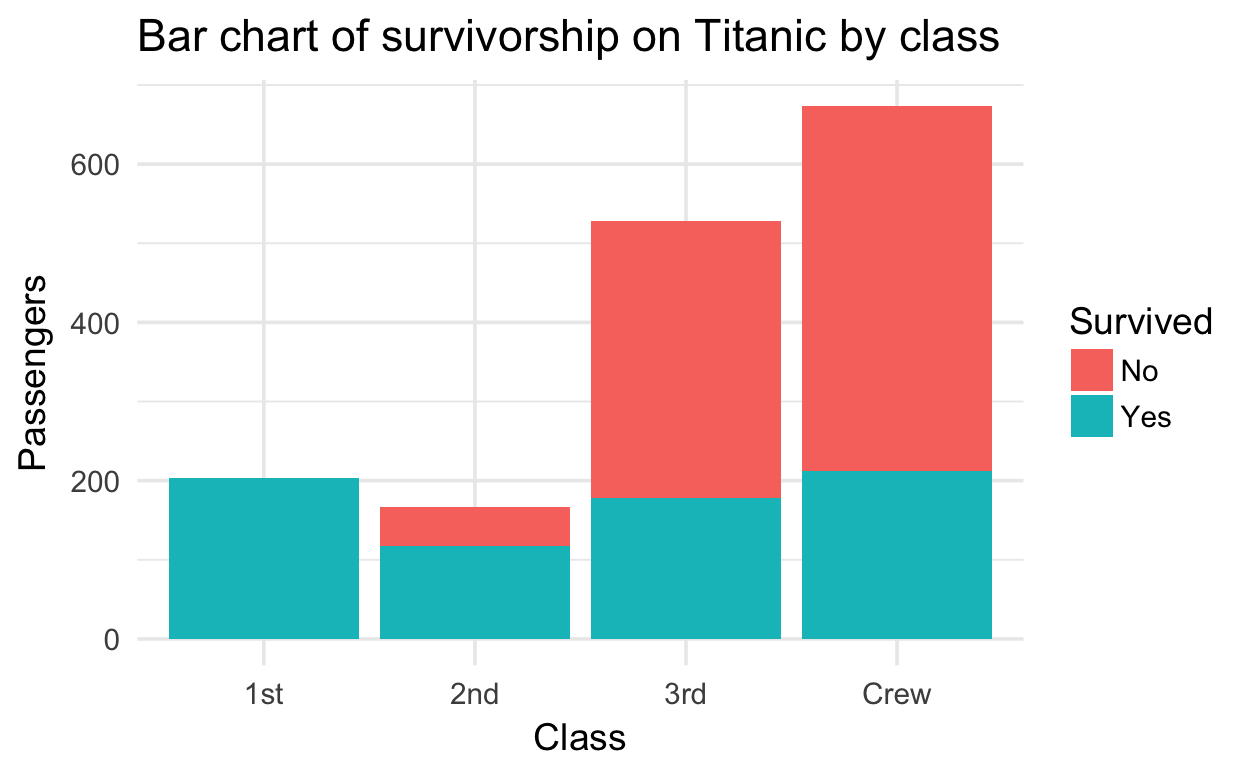
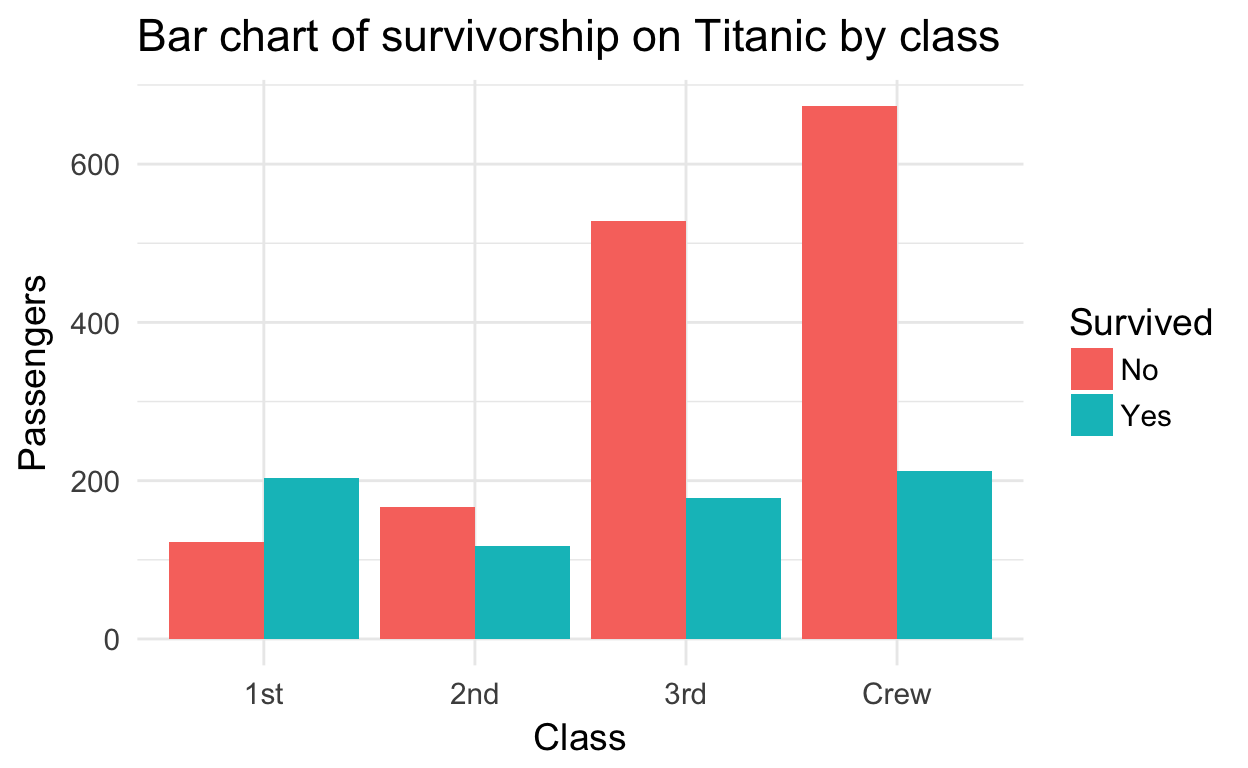
Fixed typos and some charts
Also changing the link to the WMCS-hosted workshop instead of shinyapps.io under my personal account

diff --git a/index.html b/index.html
@@ -47,7 +47,7 @@ if (window.hljs && document.readyState && document.readyState === "complete") {
 <div id="section-introduction" class="section level2">
 <h2>Introduction</h2>
 <p>Heat maps, stacked area plots, mosaic plots, choropleths – oh my! There are so many different ways to visually convey relationships and patterns in data! In this workshop on data visualization literacy, you’ll learn to recognize many popular types of charts and how to glean insights from them.</p>
-<p>This workshop is <a href="https://github.com/bearloga/wmf-allhands18">available as open source</a>. There is an <a href="https://bearloga.shinyapps.io/wmf-allhands18/">interactive version</a> and a <a href="https://bearloga.github.io/wmf-allhands18/">static version</a>.</p>
+<p>This workshop is <a href="https://github.com/bearloga/wmf-allhands18">available as open source</a>. There is an <a href="http://dataviz-literacy.wmflabs.org/">interactive version</a> (which should automatically send you to either <a href="http://dataviz-lit-01.wmflabs.org/">mirror 1</a>, <a href="http://dataviz-lit-02.wmflabs.org/">mirror 2</a>, or <a href="http://dataviz-lit-03.wmflabs.org/">mirror 3</a>) and a <a href="https://bearloga.github.io/wmf-allhands18/">static version</a>.</p>
 <table>
 <thead>
 <tr class="header">
@@ -125,13 +125,15 @@ if (window.hljs && document.readyState && document.readyState === "complete") {
 <ul>
 <li>Title (most plots should have this)</li>
 <li>Axis labels (almost all plots should have this)</li>
-<li>How many variables and their types</li>
+<li>How many variables and their types
+<ul>
 <li>Including ones used to dictate colors, shapes, patterns, sizes, opacities, etc.</li>
 <li>Independent (“<em>predictor</em>”) variables (e.g. time) are usually on the X (horizontal) axis
 <ul>
 <li>Occasionally time is plotted on the vertical axis for specific reasons</li>
 </ul></li>
 <li>Dependent (“<em>outcome</em>” / “<em>response</em>”) variables are usually on the Y (vertical) axis</li>
+</ul></li>
 <li>Scales (especially log-transformed ones)</li>
 </ul>
 </div>
@@ -184,12 +186,12 @@ Notice how the use of color allows us to compare survivorship within classes.
 </div>
 <div id="section-histograms-and-densities" class="section level3">
 <h3>Histograms and Densities</h3>
-<p>A <a href="https://en.wikipedia.org/wiki/Histogram">histogram</a> shows the distribution of a continuous variable by splitting it into bins and counting how many observations fall into each bin (left). Sometimes those counts are divided by the total number of observation to yield proportions/probabilities instead (right). <strong>Note</strong> that the histogram on the right also includes a <a href="https://en.wikipedia.org/wiki/Density_estimation">probability density estimate</a>.</p>
+<p>A <a href="https://en.wikipedia.org/wiki/Histogram">histogram</a> shows the distribution of a continuous variable by splitting it into bins and counting how many observations fall into each bin (left). Sometimes those counts are divided by the total number of observations to yield proportions/probabilities instead (right). <strong>Note</strong> that the histogram on the right also includes a <a href="https://en.wikipedia.org/wiki/Density_estimation">probability density estimate</a>.</p>
 <p><img src="index_files/figure-html4/histograms-1.png" width="624" /></p>
 </div>
 <div id="section-comparing-distributions" class="section level3">
 <h3>Comparing Distributions</h3>
-<p>When you see one of these, they are for comparing distributions of a continuous variable (such as sepal length of Iris flowers) between different groups (such as different species):</p>
+<p>When you see one of these, they are used for comparing distributions of a continuous variable (such as sepal length of Iris flowers) between different groups (such as different species):</p>
 <p><img src="index_files/figure-html4/comparing_distributions-1.png" width="624" /></p>
 <p>The <a href="https://en.wikipedia.org/wiki/Kernel_density_estimation">density plot</a> on the left is like a smooth histogram that doesn’t discretize the variable into bins. The <a href="https://en.wikipedia.org/wiki/Violin_plot">violin plot</a> on the right is a rotated version that makes it easier to perform the comparison because the densities (distributions) are not overlapping.</p>
 <p>A <a href="https://en.wikipedia.org/wiki/Box_plot">box-and-whiskers chart</a> (also known as a <em>box plot</em>) allows you to visually compare the distributions by way of a <a href="https://en.wikipedia.org/wiki/Five-number_summary">five number summary</a> which includes:</p>
@@ -201,7 +203,7 @@ Notice how the use of color allows us to compare survivorship within classes.
 <li>Sample maximum (the largest value)</li>
 </ul>
 <p><img src="index_files/figure-html4/boxplot-1.png" width="624" /></p>
-<p>My personal preference is when a violin plot and a box plot are combined so you still see the distribution in case there are multiple peaks – or <a href="https://en.wikipedia.org/wiki/Mode_(statistics)"><em>modes</em></a> – (something you can’t see with a box plot) but you also see the summaries:</p>
+<p>My personal preference is when a violin plot and a box plot are combined so you still see the distribution in case there are multiple peaks (<a href="https://en.wikipedia.org/wiki/Mode_(statistics)"><em>modes</em></a> – something you can’t see with just a box-and-whiskers plot – but you also see the summaries:</p>
 <div class="figure">
 <img src="index_files/figure-html4/violin_box_combined-1.png" alt="Notice how the box plot hides the three modes." width="624" />
 <p class="caption">
@@ -348,7 +350,12 @@ Notice how the French Wikipedia pageviews are no longer dampened by English Wiki
 <li>If they didn’t notice the same things as you, explain how you arrived at your interpretation of the chart.</li>
 </ul></li>
 </ol>
-<p><img src="index_files/figure-html4/plot1-1.png" width="624" /> <img src="index_files/figure-html4/plot2-1.png" width="624" /> <img src="index_files/figure-html4/plot3-1.png" width="624" /></p>
+<p>A different take on the Titanic data:</p>
+<p><img src="index_files/figure-html4/plot1-1.png" width="624" /></p>
+<p>A different take on the violent crime rates data:</p>
+<p><img src="index_files/figure-html4/plot2-1.png" width="624" /></p>
+<p>A different take on the Wikipedia pageviews data:</p>
+<p><img src="index_files/figure-html4/plot3-1.png" width="624" /></p>
 </div>
 <div id="section-assessment" class="section level2">
 <h2>Assessment</h2>
@@ -392,7 +399,7 @@ Notice how the French Wikipedia pageviews are no longer dampened by English Wiki
 </div>
 </div>
 
-<script type="application/json" data-for="htmlwidget-0a2171c863d09c88c28a">{"x":{"question":"Which basic chart is the best type for two continuous quantitative variables?","answers":[{"option":"pie","correct":false,"message":null},{"option":"bar","correct":false,"message":null},{"option":"scatter","correct":true,"message":null},{"option":"histogram","correct":false,"message":null},{"option":"box and whiskers","correct":false,"message":null}],"label":"quiz-3","skipStartButton":true,"perQuestionResponseAnswers":true,"perQuestionResponseMessaging":true,"preventUnanswered":true,"displayQuestionCount":false,"displayQuestionNumber":false,"disableRanking":true,"nextQuestionText":"","checkAnswerText":"Submit Answer","allowRetry":false,"randomSortAnswers":true,"json":{"info":{"name":"","main":""},"questions":[{"q":"Which basic chart is the best type for two continuous quantitative variables?","a":[{"option":"pie","correct":false,"message":null},{"option":"bar","correct":false,"message":null},{"option":"scatter","correct":true,"message":null},{"option":"histogram","correct":false,"message":null},{"option":"box and whiskers","correct":false,"message":null}],"correct":"Correct!","incorrect":"Incorrect."}]}},"evals":[],"jsHooks":[]}</script>
+<script type="application/json" data-for="htmlwidget-0a2171c863d09c88c28a">{"x":{"question":"Which basic chart is the best type for showing a relationship between two continuous quantitative variables?","answers":[{"option":"pie","correct":false,"message":null},{"option":"bar","correct":false,"message":null},{"option":"scatter","correct":true,"message":null},{"option":"histogram","correct":false,"message":null},{"option":"box and whiskers","correct":false,"message":null},{"option":"mosaic","correct":false,"message":null}],"label":"quiz-3","skipStartButton":true,"perQuestionResponseAnswers":true,"perQuestionResponseMessaging":true,"preventUnanswered":true,"displayQuestionCount":false,"displayQuestionNumber":false,"disableRanking":true,"nextQuestionText":"","checkAnswerText":"Submit Answer","allowRetry":false,"randomSortAnswers":true,"json":{"info":{"name":"","main":""},"questions":[{"q":"Which basic chart is the best type for showing a relationship between two continuous quantitative variables?","a":[{"option":"pie","correct":false,"message":null},{"option":"bar","correct":false,"message":null},{"option":"scatter","correct":true,"message":null},{"option":"histogram","correct":false,"message":null},{"option":"box and whiskers","correct":false,"message":null},{"option":"mosaic","correct":false,"message":null}],"correct":"Correct!","incorrect":"Incorrect."}]}},"evals":[],"jsHooks":[]}</script>
 </td>
 </tr>
 <tr>
@@ -405,7 +412,7 @@ Notice how the French Wikipedia pageviews are no longer dampened by English Wiki
 </div>
 </div>
 
-<script type="application/json" data-for="htmlwidget-1cff93849db96ff5d462">{"x":{"question":"An effective data visualization will include some or all of the following:","answers":[{"option":"Distribution of a variable","correct":true,"message":null},{"option":"Relationship(s) between variables","correct":true,"message":null},{"option":"Labels","correct":true,"message":null},{"option":"Fancy fonts","correct":false,"message":null},{"option":"Aesthetically pleasing colors","correct":false,"message":null},{"option":"Interactivity","correct":false,"message":null}],"label":"quiz-4","skipStartButton":true,"perQuestionResponseAnswers":true,"perQuestionResponseMessaging":true,"preventUnanswered":true,"displayQuestionCount":false,"displayQuestionNumber":false,"disableRanking":true,"nextQuestionText":"","checkAnswerText":"Submit Answer","allowRetry":false,"randomSortAnswers":true,"json":{"info":{"name":"","main":""},"questions":[{"q":"An effective data visualization will include some or all of the following:","a":[{"option":"Distribution of a variable","correct":true,"message":null},{"option":"Relationship(s) between variables","correct":true,"message":null},{"option":"Labels","correct":true,"message":null},{"option":"Fancy fonts","correct":false,"message":null},{"option":"Aesthetically pleasing colors","correct":false,"message":null},{"option":"Interactivity","correct":false,"message":null}],"correct":"Correct!","incorrect":"Incorrect.","force_checkbox":true}]}},"evals":[],"jsHooks":[]}</script>
+<script type="application/json" data-for="htmlwidget-1cff93849db96ff5d462">{"x":{"question":"An effective data visualization will include some or all of the following:","answers":[{"option":"Distribution of a variable","correct":true,"message":null},{"option":"Relationship(s) between variables","correct":true,"message":null},{"option":"Labels","correct":true,"message":null},{"option":"Fancy fonts","correct":false,"message":null},{"option":"Aesthetically pleasing colors","correct":false,"message":null},{"option":"Interactivity","correct":false,"message":null}],"label":"quiz-4","skipStartButton":true,"perQuestionResponseAnswers":true,"perQuestionResponseMessaging":true,"preventUnanswered":true,"displayQuestionCount":false,"displayQuestionNumber":false,"disableRanking":true,"nextQuestionText":"","checkAnswerText":"Submit Answer","allowRetry":false,"randomSortAnswers":true,"json":{"info":{"name":"","main":""},"questions":[{"q":"An effective data visualization will include some or all of the following:","a":[{"option":"Distribution of a variable","correct":true,"message":null},{"option":"Relationship(s) between variables","correct":true,"message":null},{"option":"Labels","correct":true,"message":null},{"option":"Fancy fonts","correct":false,"message":null},{"option":"Aesthetically pleasing colors","correct":false,"message":null},{"option":"Interactivity","correct":false,"message":null}],"correct":"Correct!","incorrect":"Interactivity CAN make a data visualization more effective, but we have seen static (non-interactive) examples so far that are completely fine without it. When it comes to colors, the most important factor is whether they convey the information well, and having a color scheme that is aesthetically pleasing is really nice, but is not technically necessary. Fancy fonts can look good, but they don&#39;t add to the story the visualization is meant to tell.","force_checkbox":true}]}},"evals":[],"jsHooks":[]}</script>
 </td>
 </tr>
 <tr>
@@ -479,7 +486,7 @@ knitr::opts_chunk$set(echo = FALSE, warning = FALSE, message = FALSE)
 </script>
  
 <script type="application/shiny-prerendered" data-context="server">
-learnr:::register_http_handlers(session, metadata = list(id = "org.wikimedia.mikhail.dataviz-literacy", version = "0.9.0"))
+learnr:::register_http_handlers(session, metadata = list(id = "org.wikimedia.mikhail.dataviz-literacy", version = "0.9.1"))
 </script>
  
 <script type="application/shiny-prerendered" data-context="data">

diff --git a/README.md b/README.md
@@ -6,7 +6,7 @@ To be given at [Wikimedia Foundation's All Hands 2018](https://office.wikimedia.
 
 ## Setup
 
-This workshop uses the [learnr](https://rstudio.github.io/learnr/) and [rmarkdown](http://rmarkdown.rstudio.com/) packages from [RStudio](https://www.rstudio.com/) to create [an interactive web application](https://bearloga.shinyapps.io/wmf-allhands18/) and [a static web page](https://bearloga.github.io/wmf-allhands18/).
+This workshop uses the [learnr](https://rstudio.github.io/learnr/) and [rmarkdown](http://rmarkdown.rstudio.com/) packages from [RStudio](https://www.rstudio.com/) to create [an interactive web application](http://dataviz-literacy.wmflabs.org/) (which should automatically send you to either [mirror 1](http://dataviz-lit-01.wmflabs.org/), [mirror 2](http://dataviz-lit-02.wmflabs.org/), or [mirror 3](http://dataviz-lit-03.wmflabs.org/)) and [a static web page](https://bearloga.github.io/wmf-allhands18/).
 
 ```R
 install.packages(c("tidyverse", "devtools", "learnr"))
